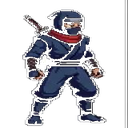
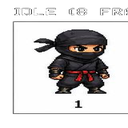
V259: Replace boomerang character sprites with ninja art (user's intended target)

diff --git a/config.js b/config.js
@@ -1,4 +1,4 @@
-window.GAME_VERSION = "V258";
+window.GAME_VERSION = "V259";
 window.HARDCORE_HP_MULTIPLIER = 3.0; 
 window.LEVEL_CLEAR_HEAL_PERCENT = 0.5;
 window.DEBUG_SHOW_HITBOX = false;